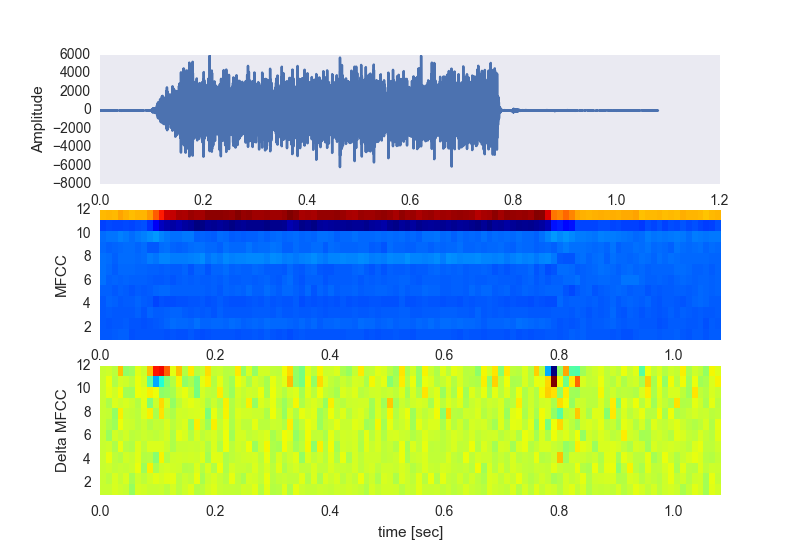
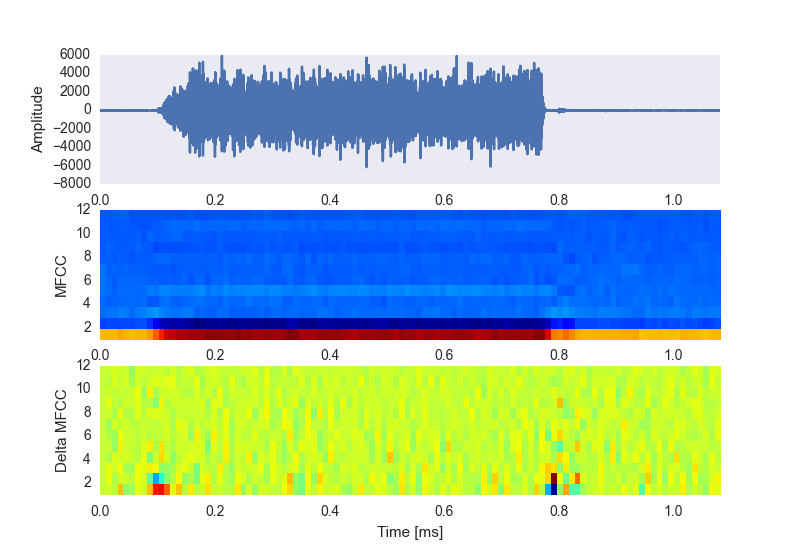
fix

diff --git a/main.py b/main.py
@@ -37,64 +37,75 @@ if __name__ == '__main__':
   print('Get wave data list: ', getwav)
   
   """ Read wave datas """
-  wavdata, fs, time_shift = read_wav_data(getwav[0])
-
-  """ MFCC """
-  #mfcc.mfcc => wavdata, fs, time_song, ceps
-  wavdata, fs, time_song, ceps = mfcc.mfcc(wavdata, fs)
+  wavdata_, fs_, time_shift = read_wav_data(getwav[0])
   
-  """ Delta MFCC """
+
+  ''' Compute features
+  Used functions:
+    MFCC, Delta MFCC, AveMFCC, AveDeltaMFCC
+    MFCC: 	mfcc.mfcc(line)
+    Delta MFCC:	mfcc.delta(line)
+    Averages:	line.mean(axis=1)
+  '''
+  # MFCC
+  wavdata, fs, time_song, ceps = mfcc.mfcc(wavdata_, fs_)
+  
+  # Delta MFCC
   delta_mfcc = np.empty((0, len(ceps)), int)
   for line in range(len(ceps.T)):
     delta_mfcc = np.append(delta_mfcc, [mfcc.delta(ceps.T[line])], axis=0)
 
-
-  ''' Calculate the average '''
-  # MFCC
-  #print(len(ceps.T))	# 12
-  #print(ceps[0, :])	# 12 value
+  # MFCC Average
   ave_mfcc = []
-  #for i in range(len(ceps.T)):
-  #  ave_mfcc.append(sum(ceps.T[i, :])/len(ceps))
-  print(ceps.T.mean(axis=1))
   ave_mfcc.append(ceps.T.mean(axis=1))
+
+  # Delta MFCC Average
+  ave_DeltaMfcc = []
+  ave_DeltaMfcc.append(delta_mfcc.mean(axis=1))
+
 
   """ Plot """
   # WAVE
   plt.subplot(3,1,1)
-  plt.plot(time_shift, wavdata)
+  plt.plot(time_shift, wavdata_)
+  plt.xlim(0, time_song)
   plt.ylabel('Amplitude')
+  #plt.xlabel('Time [ms]')
+  #plt.savefig('pic/wave.png')
+  #plt.clf() 
   
   # MFCC
   plt.subplot(3,1,2)
-  plt.imshow(ceps.T, extent=[0, time_song, 1, len(ceps.T)], 
+  plt.imshow(ceps.T[::-1], extent=[0, time_song, 1, len(ceps.T)], 
 	     aspect='auto', interpolation='nearest')
   plt.ylabel('MFCC')
+  #plt.xlabel('Time [ms]')
   plt.jet()
   #plt.colorbar()
-
+  #plt.savefig('pic/mfcc.png')
+  #plt.clf()
+  
   # Delta MFCC
   plt.subplot(3,1,3)
-  plt.imshow(delta_mfcc, extent=[0, time_song, 1, len(delta_mfcc)],
+  plt.imshow(delta_mfcc[::-1], extent=[0, time_song, 1, len(delta_mfcc)],
 	     aspect='auto', interpolation='nearest')
   plt.ylabel('Delta MFCC')
+  plt.xlabel('Time [sec]')
   plt.jet()
   #plt.colorbar()
+  #plt.savefig('pic/delta_mfcc.png')
 
-  plt.xlabel('time [sec]')
-  plt.savefig('image.png')
+  plt.savefig('pic/image.png')
   #plt.show()
 
   ''' CSVに書き込み'''
   # MFCC
-  print('Output MFCC')
   f = open('csv/MFCC.csv','wb')
   dataWriter = csv.writer(f)
   dataWriter.writerows(ceps)
   f.close()
   
   # Delta MFCC
-  print('Output Delta MFCC')
   f = open('csv/DeltaMFCC.csv','wb')
   dataWriter2 = csv.writer(f)
   dataWriter2.writerows(delta_mfcc)
@@ -102,7 +113,6 @@ if __name__ == '__main__':
   
 
   ''' CSVにAverageを書き込み '''
-  print('Output Averages')
 
   # Average MFCC
   f = open('csv/aveMFCC.csv', 'wb')
@@ -112,7 +122,8 @@ if __name__ == '__main__':
 
   # Average Delta MFCC
   f = open('csv/aveDeltaMFCC.csv', 'wb')
+  dataWriter4 = csv.writer(f)
+  dataWriter4.writerows(ave_DeltaMfcc)
   f.close()
-
 
 

diff --git a/README.md b/README.md
@@ -12,7 +12,7 @@ out >>>
 同じディレクトリ内にMFCCをプロットしたグラフも生成されます(排除)．  
 ・test.wav から出力 test.png
 <div style="text-align: left;">
-<img src="https://github.com/Hiroyuky/mfcc/blob/master/test.png" alt="MFCC12testPicture" title="test.png" width="600px">  
+<img src="https://github.com/Hiroyuky/mfcc/blob/master/pic/image.png" alt="MFCC12testPicture" title="test.png" width="600px">  
 </div>
 
 ## main.py
